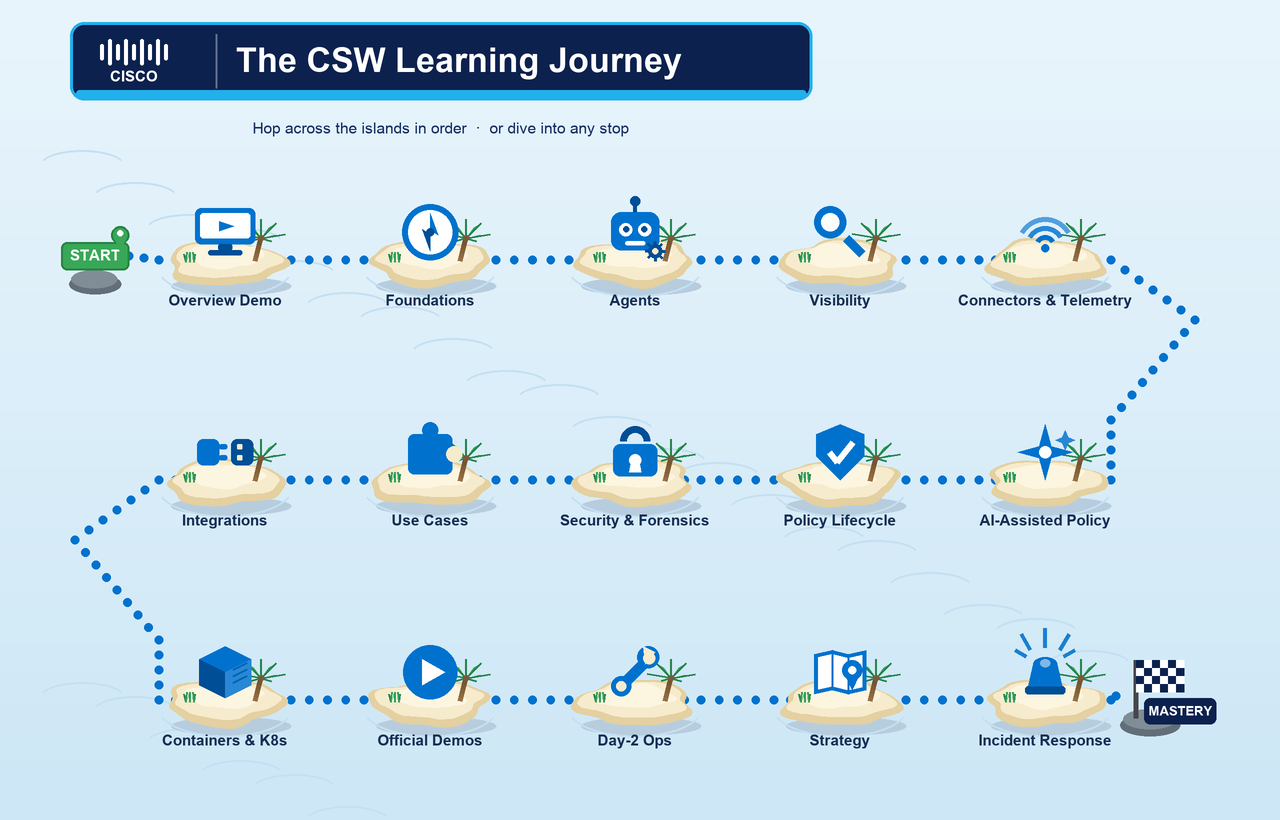
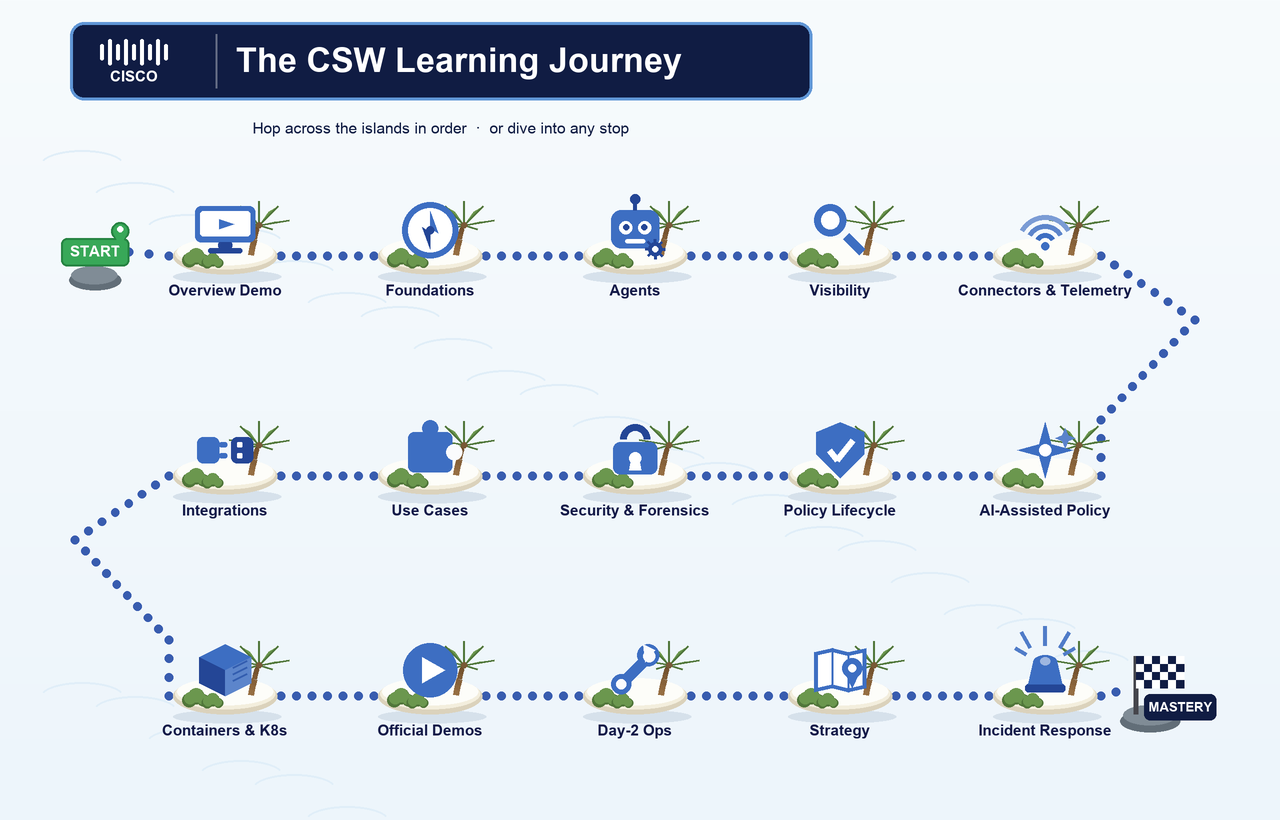
Match journey map islands to approved reference template
Restyle islands to the reference design measured from the shared mockup:
small cream-sand domes (~103x36px) with tan rims, olive two-tone bushes,
palm fronds, near-white background, royal-blue (61,110,194) icons and
dotted trail, and navy labels/header with a light-blue border.

diff --git a/assets/make_learning_journey.py b/assets/make_learning_journey.py
@@ -1,9 +1,10 @@
 #!/usr/bin/env python3
 """Generate the CSW Learning Journey island map for the User Education README.
 
-15 themed stops laid out in learning-path order (Overview -> Incident Response),
-connected by a dotted "hop across the islands" trail from START to MASTERY.
-Small sand islands with large, prominent icons on top; no numbering.
+15 themed stops in learning-path order (Overview -> Incident Response), connected
+by a dotted trail from START to MASTERY. Template, colors, and island dimensions
+are matched to the approved reference design: small cream-sand dome islands with
+tan rims, olive bushes, palm trees, and large royal-blue icons on top; numberless.
 Rendered at 2x and downsampled for crisp, anti-aliased output.
 All original artwork; no Cisco copyrighted assets.
 """
@@ -15,28 +16,29 @@ from PIL import Image, ImageDraw, ImageFont
 S = 2
 W, H = 1280, 820
 
-# ---- palette ----
-SKY_TOP   = (233, 245, 252)
-SKY_BOT   = (205, 231, 246)
-WAVE      = (196, 224, 242)
-NAVY      = (12, 33, 78)
-NAVY_2    = (20, 47, 100)
-CYAN      = (33, 176, 235)
-BLUE      = (0, 114, 206)      # Cisco blue
-BLUE_DK   = (0, 78, 150)
+# ---- palette (sampled from the approved reference) ----
+SKY_TOP   = (247, 251, 253)
+SKY_BOT   = (237, 245, 251)
+WAVE      = (224, 238, 248)
+NAVY      = (16, 28, 67)         # header
+NAVY_BDR  = (96, 150, 214)       # header border/glow
+BLUE      = (61, 110, 194)       # icons / accents
+BLUE_DK   = (36, 70, 150)
+PATH      = (56, 92, 175)        # dotted trail
 WHITE     = (255, 255, 255)
-SAND      = (247, 235, 205)
-SAND_HI   = (252, 245, 224)
-SAND_EDGE = (228, 208, 160)
-SAND_SH   = (183, 205, 222)    # island shadow on water
+CUT       = (250, 251, 253)      # icon cut-outs (reads as background)
+SAND_HI   = (253, 253, 249)      # cream sand body
+SAND_MID  = (243, 238, 221)
+SAND_EDGE = (219, 210, 188)      # tan bottom rim
+SAND_SH   = (214, 225, 235)      # soft water shadow
+BUSH      = (107, 151, 78)       # olive foliage
+BUSH_DK   = (80, 118, 58)
 TRUNK     = (150, 110, 66)
-LEAF      = (52, 160, 92)
-LEAF_DK   = (36, 132, 74)
 GREEN     = (56, 168, 88)
 GREEN_DK  = (38, 132, 66)
 ROCK      = (128, 140, 150)
 ROCK_DK   = (98, 110, 120)
-LABEL     = (23, 46, 84)
+LABEL     = (20, 26, 72)
 
 FONT  = ["/System/Library/Fonts/Supplemental/Arial.ttf", "/Library/Fonts/Arial.ttf"]
 BOLDF = ["/System/Library/Fonts/Supplemental/Arial Bold.ttf",
@@ -97,17 +99,17 @@ def blend(a, b, t):
 
 # ------------------------------------------------------------- big icons ----
 def icon(c, kind, cx, cy):
-    """Large (~60px), clean icon centered at (cx, cy)."""
-    col, dk, wt = BLUE, BLUE_DK, WHITE
+    """Large (~60px), clean royal-blue icon centered at (cx, cy)."""
+    col, dk = BLUE, BLUE_DK
 
     if kind == "overview":                 # monitor + play
         c.rrect([cx - 30, cy - 24, cx + 30, cy + 12], 6, fill=col)
-        c.rrect([cx - 25, cy - 19, cx + 25, cy + 6], 3, fill=wt)
+        c.rrect([cx - 25, cy - 19, cx + 25, cy + 6], 3, fill=WHITE)
         c.polygon([(cx - 6, cy - 11), (cx - 6, cy - 1), (cx + 9, cy - 6)], fill=col)
         c.rrect([cx - 7, cy + 12, cx + 7, cy + 18], 2, fill=dk)
         c.rrect([cx - 17, cy + 18, cx + 17, cy + 23], 3, fill=dk)
     elif kind == "compass":
-        c.ellipse([cx - 28, cy - 28, cx + 28, cy + 28], fill=wt, outline=col, width=6)
+        c.ellipse([cx - 28, cy - 28, cx + 28, cy + 28], fill=WHITE, outline=col, width=6)
         c.polygon([(cx, cy - 19), (cx + 8, cy + 3), (cx, cy - 2)], fill=col)
         c.polygon([(cx, cy + 19), (cx - 8, cy - 3), (cx, cy + 2)], fill=dk)
         c.ellipse([cx - 4, cy - 4, cx + 4, cy + 4], fill=dk)
@@ -115,141 +117,138 @@ def icon(c, kind, cx, cy):
         c.rrect([cx - 24, cy - 20, cx + 24, cy + 18], 10, fill=col)
         c.line([(cx, cy - 20), (cx, cy - 31)], fill=dk, width=4)
         c.ellipse([cx - 5, cy - 36, cx + 5, cy - 26], fill=dk)
-        c.ellipse([cx - 16, cy - 9, cx - 3, cy + 4], fill=wt)
-        c.ellipse([cx + 3, cy - 9, cx + 16, cy + 4], fill=wt)
+        c.ellipse([cx - 16, cy - 9, cx - 3, cy + 4], fill=WHITE)
+        c.ellipse([cx + 3, cy - 9, cx + 16, cy + 4], fill=WHITE)
         c.ellipse([cx - 12, cy - 6, cx - 6, cy], fill=dk)
         c.ellipse([cx + 6, cy - 6, cx + 12, cy], fill=dk)
-        c.rrect([cx - 10, cy + 9, cx + 10, cy + 13], 2, fill=wt)
-        gx, gy = cx + 20, cy + 19          # little gear
+        c.rrect([cx - 10, cy + 9, cx + 10, cy + 13], 2, fill=WHITE)
+        gx, gy = cx + 20, cy + 19
         for a in range(8):
             ang = a * math.pi / 4
             c.line([(gx + math.cos(ang) * 5, gy + math.sin(ang) * 5),
                     (gx + math.cos(ang) * 10, gy + math.sin(ang) * 10)], fill=dk, width=3)
         c.ellipse([gx - 7, gy - 7, gx + 7, gy + 7], fill=dk)
-        c.ellipse([gx - 3, gy - 3, gx + 3, gy + 3], fill=SAND)
+        c.ellipse([gx - 3, gy - 3, gx + 3, gy + 3], fill=CUT)
     elif kind == "search":                 # magnifier
-        c.ellipse([cx - 26, cy - 26, cx + 6, cy + 6], fill=wt, outline=col, width=7)
+        c.ellipse([cx - 26, cy - 26, cx + 6, cy + 6], fill=WHITE, outline=col, width=7)
         c.line([(cx + 6, cy + 6), (cx + 22, cy + 22)], fill=col, width=9)
     elif kind == "telemetry":              # broadcast waves
         c.ellipse([cx - 4, cy + 12, cx + 4, cy + 20], fill=col)
         for i, r in enumerate((11, 20, 29)):
             c.arc([cx - r, cy - r + 14, cx + r, cy + r + 14], 210, 330,
-                  fill=blend(col, wt, i * 0.16), width=5)
+                  fill=blend(col, WHITE, i * 0.16), width=5)
     elif kind == "ai":                     # spark / AI star
         c.polygon([(cx, cy - 28), (cx + 6, cy - 6), (cx + 28, cy),
                    (cx + 6, cy + 6), (cx, cy + 28), (cx - 6, cy + 6),
                    (cx - 28, cy), (cx - 6, cy - 6)], fill=col)
-        c.ellipse([cx - 6, cy - 6, cx + 6, cy + 6], fill=wt)
+        c.ellipse([cx - 6, cy - 6, cx + 6, cy + 6], fill=WHITE)
         c.polygon([(cx + 20, cy - 22), (cx + 23, cy - 15), (cx + 30, cy - 12),
                    (cx + 23, cy - 9), (cx + 20, cy - 2), (cx + 17, cy - 9),
-                   (cx + 10, cy - 12), (cx + 17, cy - 15)], fill=blend(col, wt, 0.15))
+                   (cx + 10, cy - 12), (cx + 17, cy - 15)], fill=blend(col, WHITE, 0.15))
     elif kind == "shield":                 # shield + check (Policy Lifecycle)
         pts = [(cx, cy - 28), (cx + 24, cy - 18), (cx + 24, cy + 4),
                (cx, cy + 28), (cx - 24, cy + 4), (cx - 24, cy - 18)]
         c.polygon(pts, fill=col)
-        c.line([(cx - 11, cy), (cx - 3, cy + 10)], fill=wt, width=6)
-        c.line([(cx - 3, cy + 10), (cx + 13, cy - 10)], fill=wt, width=6)
+        c.line([(cx - 11, cy), (cx - 3, cy + 10)], fill=WHITE, width=6)
+        c.line([(cx - 3, cy + 10), (cx + 13, cy - 10)], fill=WHITE, width=6)
     elif kind == "lock":                   # padlock (Security)
         c.arc([cx - 15, cy - 26, cx + 15, cy + 4], 180, 360, fill=dk, width=7)
         c.rrect([cx - 22, cy - 8, cx + 22, cy + 24], 7, fill=col)
-        c.ellipse([cx - 6, cy + 2, cx + 6, cy + 14], fill=wt)
+        c.ellipse([cx - 6, cy + 2, cx + 6, cy + 14], fill=WHITE)
         c.polygon([(cx - 4, cy + 9), (cx + 4, cy + 9), (cx + 6, cy + 20),
-                   (cx - 6, cy + 20)], fill=wt)
+                   (cx - 6, cy + 20)], fill=WHITE)
     elif kind == "puzzle":                 # puzzle piece
         c.rrect([cx - 22, cy - 18, cx + 22, cy + 22], 6, fill=col)
         c.ellipse([cx - 8, cy - 30, cx + 8, cy - 14], fill=col)
-        c.ellipse([cx + 16, cy - 6, cx + 32, cy + 10], fill=SAND)
+        c.ellipse([cx + 16, cy - 6, cx + 32, cy + 10], fill=CUT)
     elif kind == "integrations":           # plug + outlet
         c.rrect([cx - 28, cy - 13, cx - 6, cy + 13], 6, fill=col)
         c.rrect([cx - 6, cy - 8, cx + 2, cy - 3], 2, fill=col)
         c.rrect([cx - 6, cy + 3, cx + 2, cy + 8], 2, fill=col)
         c.rrect([cx + 6, cy - 13, cx + 28, cy + 13], 6, fill=dk)
-        c.rrect([cx + 12, cy - 8, cx + 17, cy - 3], 1, fill=SAND)
-        c.rrect([cx + 12, cy + 3, cx + 17, cy + 8], 1, fill=SAND)
+        c.rrect([cx + 12, cy - 8, cx + 17, cy - 3], 1, fill=CUT)
+        c.rrect([cx + 12, cy + 3, cx + 17, cy + 8], 1, fill=CUT)
     elif kind == "container":              # isometric container / cube
         c.polygon([(cx, cy - 26), (cx + 26, cy - 13), (cx, cy), (cx - 26, cy - 13)], fill=col)
         c.polygon([(cx - 26, cy - 13), (cx, cy), (cx, cy + 26), (cx - 26, cy + 13)], fill=dk)
         c.polygon([(cx + 26, cy - 13), (cx, cy), (cx, cy + 26), (cx + 26, cy + 13)],
-                  fill=blend(col, wt, 0.16))
-        for k in (-13, 0, 13):             # ridges on the right face
+                  fill=blend(col, WHITE, 0.16))
+        for k in (-13, 0, 13):
             c.line([(cx + 8, cy + 4 + k * 0.5), (cx + 22, cy - 3 + k * 0.5)],
                    fill=blend(col, dk, 0.4), width=2)
     elif kind == "play":                   # play in circle
         c.ellipse([cx - 27, cy - 27, cx + 27, cy + 27], fill=col)
-        c.polygon([(cx - 8, cy - 13), (cx - 8, cy + 13), (cx + 15, cy)], fill=wt)
+        c.polygon([(cx - 8, cy - 13), (cx - 8, cy + 13), (cx + 15, cy)], fill=WHITE)
     elif kind == "wrench":
         c.line([(cx - 18, cy + 18), (cx + 10, cy - 10)], fill=col, width=11)
-        c.ellipse([cx + 2, cy - 26, cx + 24, cy - 4], fill=col)     # top head
-        c.ellipse([cx + 8, cy - 20, cx + 20, cy - 8], fill=SAND)
-        c.polygon([(cx + 8, cy - 26), (cx + 20, cy - 20), (cx + 10, cy - 8)], fill=SAND)
-        c.ellipse([cx - 24, cy + 4, cx - 4, cy + 24], fill=col)     # bottom head
-        c.ellipse([cx - 19, cy + 9, cx - 9, cy + 19], fill=SAND)
+        c.ellipse([cx + 2, cy - 26, cx + 24, cy - 4], fill=col)
+        c.ellipse([cx + 8, cy - 20, cx + 20, cy - 8], fill=CUT)
+        c.polygon([(cx + 8, cy - 26), (cx + 20, cy - 20), (cx + 10, cy - 8)], fill=CUT)
+        c.ellipse([cx - 24, cy + 4, cx - 4, cy + 24], fill=col)
+        c.ellipse([cx - 19, cy + 9, cx - 9, cy + 19], fill=CUT)
     elif kind == "strategy":               # folded map + pin
         c.polygon([(cx - 26, cy - 18), (cx - 8, cy - 22), (cx + 8, cy - 18),
                    (cx + 26, cy - 22), (cx + 26, cy + 18), (cx + 8, cy + 22),
-                   (cx - 8, cy + 18), (cx - 26, cy + 22)], fill=wt, outline=col, width=4)
+                   (cx - 8, cy + 18), (cx - 26, cy + 22)], fill=WHITE, outline=col, width=4)
         c.line([(cx - 8, cy - 22), (cx - 8, cy + 18)], fill=col, width=2)
         c.line([(cx + 8, cy - 18), (cx + 8, cy + 22)], fill=col, width=2)
-        c.ellipse([cx + 2, cy - 12, cx + 22, cy + 8], fill=col)     # pin
+        c.ellipse([cx + 2, cy - 12, cx + 22, cy + 8], fill=col)
         c.polygon([(cx + 5, cy + 3), (cx + 19, cy + 3), (cx + 12, cy + 18)], fill=col)
-        c.ellipse([cx + 8, cy - 6, cx + 16, cy + 2], fill=wt)
+        c.ellipse([cx + 8, cy - 6, cx + 16, cy + 2], fill=WHITE)
     elif kind == "siren":                  # alert beacon
         c.rrect([cx - 20, cy + 14, cx + 20, cy + 22], 3, fill=dk)
         c.polygon([(cx - 17, cy + 14), (cx - 12, cy - 8), (cx + 12, cy - 8),
                    (cx + 17, cy + 14)], fill=col)
         c.ellipse([cx - 12, cy - 15, cx + 12, cy - 1], fill=col)
-        c.ellipse([cx - 5, cy - 13, cx + 5, cy - 5], fill=blend(col, wt, 0.5))
+        c.ellipse([cx - 5, cy - 13, cx + 5, cy - 5], fill=blend(col, WHITE, 0.5))
         for dx, dy in ((-30, -12), (-24, -28), (0, -34), (24, -28), (30, -12)):
             c.line([(cx + dx * 0.62, cy - 10 + dy * 0.42),
-                    (cx + dx, cy - 10 + dy)], fill=blend(col, wt, 0.1), width=4)
+                    (cx + dx, cy - 10 + dy)], fill=blend(col, WHITE, 0.1), width=4)
 
 
 # ---------------------------------------------------------------- pieces ----
 def palm(c, x, y):
-    """Small palm tree; base of trunk at (x, y)."""
+    """Palm tree; base of trunk at (x, y)."""
     for i in range(6):
         t = i / 5
-        c.line([(x + t * 5, y - t * 20), (x + (t + 0.2) * 5, y - (t + 0.2) * 20)],
-               fill=blend(TRUNK, (110, 78, 44), t), width=5 - int(t))
-    tx, ty = x + 6, y - 23
-    for fx, fy in [(-24, -4), (-15, -15), (0, -19), (15, -15), (24, -4), (10, 3), (-10, 3)]:
-        c.polygon([(tx, ty), (tx + fx * 0.5, ty + fy * 0.7), (tx + fx, ty + fy)], fill=LEAF)
-        c.line([(tx, ty), (tx + fx, ty + fy)], fill=LEAF_DK, width=2)
+        c.line([(x + t * 6, y - t * 26), (x + (t + 0.2) * 6, y - (t + 0.2) * 26)],
+               fill=blend(TRUNK, (110, 78, 44), t), width=6 - int(t * 2))
+    tx, ty = x + 8, y - 30
+    for fx, fy in [(-30, -5), (-19, -19), (0, -24), (19, -19), (30, -5), (13, 4), (-13, 4)]:
+        c.polygon([(tx, ty), (tx + fx * 0.5, ty + fy * 0.7), (tx + fx, ty + fy)], fill=BUSH)
+        c.line([(tx, ty), (tx + fx, ty + fy)], fill=BUSH_DK, width=2)
     c.ellipse([tx - 3, ty - 3, tx + 3, ty + 3], fill=(120, 90, 55))
 
 
-def grass_tuft(c, x, y):
-    for dx in (-5, -1, 3):
-        c.line([(x + dx, y), (x + dx * 1.4, y - 8)], fill=LEAF_DK, width=2)
-        c.line([(x + dx, y), (x + dx * 0.8, y - 10)], fill=LEAF, width=2)
+def bush(c, x, y, s=1.0):
+    """Rounded two-tone olive shrub centered near (x, y)."""
+    for dx, dy, r in [(-6, 1, 7), (1, -3, 8), (8, 1, 6)]:
+        c.ellipse([x + (dx - r) * s, y + (dy - r) * s, x + (dx + r) * s, y + (dy + r) * s],
+                  fill=BUSH_DK)
+    for dx, dy, r in [(-5, -1, 6), (1, -4, 7), (7, 0, 5)]:
+        c.ellipse([x + (dx - r) * s, y + (dy - r) * s, x + (dx + r) * s, y + (dy + r) * s],
+                  fill=BUSH)
 
 
-def blob(cx, cy, rx, ry, seed, n=48):
-    pts = []
-    for i in range(n):
-        a = 2 * math.pi * i / n
-        k = (0.08 * math.sin(3 * a + seed) + 0.05 * math.sin(5 * a + seed * 1.7)
-             + 0.03 * math.sin(8 * a + seed * 0.6))
-        pts.append((cx + math.cos(a) * rx * (1 + k), cy + math.sin(a) * ry * (1 + k)))
-    return pts
+def island(c, cx, cy, kind, label):
+    """Cream-sand dome island beneath a large icon (reference dimensions).
+
+    Island footprint ~103px wide x ~36px tall; cy is the ICON center.
+    """
+    scy = cy + 26                          # sand dome center
+    rx, ry = 52, 18
+    c.ellipse([cx - rx, scy + ry - 4, cx + rx + 4, scy + ry + 9], fill=SAND_SH)   # water shadow
+    c.ellipse([cx - rx, scy - ry, cx + rx, scy + ry], fill=SAND_EDGE)             # tan rim
+    c.ellipse([cx - rx + 2, scy - ry, cx + rx - 2, scy + ry - 5], fill=SAND_MID)  # sand body
+    c.ellipse([cx - rx + 4, scy - ry, cx + rx - 4, scy + ry - 9], fill=SAND_HI)   # cream top
+    bush(c, cx - 30, scy + 3)
+    bush(c, cx - 13, scy + 6, s=0.8)
+    palm(c, cx + 26, scy - 1)
+    icon(c, kind, cx, cy)
+    c.text((cx, scy + ry + 16), label, bold(15), LABEL)
 
 
-def island(c, cx, cy, kind, label, seed):
-    """Small sand island beneath a large icon; cy is the ICON center."""
-    scy = cy + 30                          # sand mound center
-    rx, ry = 58, 23
-    c.ellipse([cx - rx + 4, scy + ry - 6, cx + rx + 8, scy + ry + 12], fill=SAND_SH)
-    c.arc([cx - rx - 10, scy - ry, cx + rx + 10, scy + ry + 14], 20, 160, fill=WAVE, width=2)
-    c.polygon(blob(cx, scy + 3, rx, ry, seed), fill=SAND_EDGE)
-    c.polygon(blob(cx, scy, rx - 6, ry - 5, seed), fill=SAND)
-    c.polygon(blob(cx, scy - 4, rx - 20, ry - 11, seed + 1.3), fill=SAND_HI)
-    grass_tuft(c, cx - 34, scy + 2)
-    palm(c, cx + 30, scy + 1)
-    icon(c, kind, cx, cy + 2)
-    c.text((cx, scy + ry + 17), label, bold(15), LABEL)
-
-
-def dotted_path(c, pts, color=BLUE, r=4.2, gap=15):
+def dotted_path(c, pts, color=PATH, r=4.2, gap=15):
     for a, b in zip(pts, pts[1:]):
         (x0, y0), (x1, y1) = a, b
         dist = math.hypot(x1 - x0, y1 - y0)
@@ -293,7 +292,6 @@ def cisco_logo(c, x, y):
     c.text((x + 34, y + 24), "CISCO", bold(15), WHITE, anchor="mm")
 
 
-# ---- islands in learning-path order: (icon, label) ----
 ISLANDS = [
     ("overview",     "Overview Demo"),
     ("compass",      "Foundations"),
@@ -325,9 +323,8 @@ def build(path):
         wx = 40 + (i * 53) % (W - 220)
         c.arc([wx, wy, wx + 84, wy + 30], 200, 340, fill=WAVE, width=2)
 
-    # 5 columns x 3 rows, serpentine
     col_x = [225, 430, 635, 840, 1045]
-    row_y = [230, 450, 670]                # icon-center rows
+    row_y = [230, 450, 670]
 
     pos = {}
     for i in range(5):
@@ -337,22 +334,22 @@ def build(path):
     for i in range(5):
         pos[11 + i] = (col_x[i], row_y[2])
 
-    start_xy = (95, row_y[0] + 30)
-    mastery_xy = (1150, row_y[2] + 30)
+    start_xy = (95, row_y[0] + 26)
+    mastery_xy = (1150, row_y[2] + 26)
 
-    E = 66                                  # island half-width at sand level
-    def er(n): x, y = pos[n]; return (x + E, y + 30)
-    def el(n): x, y = pos[n]; return (x - E, y + 30)
+    E = 56
+    def er(n): x, y = pos[n]; return (x + E, y + 26)
+    def el(n): x, y = pos[n]; return (x - E, y + 26)
 
     trail = [(start_xy[0] + 34, start_xy[1] - 4), el(1)]
     for n in range(1, 5):
         trail += [er(n), el(n + 1)]
     x5, y5 = pos[5]; x6, y6 = pos[6]
-    trail += [(x5 + E, y5 + 30), (x5 + 150, y5 + 90), (x6 + E, y6 - 30), er(6)]
+    trail += [(x5 + E, y5 + 26), (x5 + 150, y5 + 90), (x6 + E, y6 - 30), er(6)]
     for n in range(6, 10):
         trail += [el(n), er(n + 1)]
     x10, y10 = pos[10]; x11, y11 = pos[11]
-    trail += [(x10 - E, y10 + 30), (x10 - 150, y10 + 90), (x11 - E, y11 - 30), el(11)]
+    trail += [(x10 - E, y10 + 26), (x10 - 150, y10 + 90), (x11 - E, y11 - 30), el(11)]
     for n in range(11, 15):
         trail += [er(n), el(n + 1)]
     trail += [er(15), (mastery_xy[0] - 34, mastery_xy[1] - 4)]
@@ -362,17 +359,16 @@ def build(path):
     start_marker(c, *start_xy)
     for i, (kind, label) in enumerate(ISLANDS, 1):
         x, y = pos[i]
-        island(c, x, y, kind, label, seed=i * 1.37)
+        island(c, x, y, kind, label)
     mastery_marker(c, *mastery_xy)
 
-    # header banner
-    c.rrect([70, 22, 812, 100], 14, fill=NAVY, outline=CYAN, width=3)
-    c.rrect([76, 90, 806, 97], 4, fill=CYAN)
+    # header banner (navy with light-blue border)
+    c.rrect([70, 22, 812, 100], 14, fill=NAVY, outline=NAVY_BDR, width=3)
     cisco_logo(c, 100, 52)
     c.line([(216, 34), (216, 88)], fill=blend(NAVY, WHITE, 0.35), width=2)
     c.text((236, 60), "The CSW Learning Journey", bold(34), WHITE, anchor="lm")
     c.text((441, 128), "Hop across the islands in order  \u00b7  or dive into any stop",
-           font(15.5), NAVY_2, anchor="mm")
+           font(15.5), NAVY, anchor="mm")
 
     big.resize((W, H), Image.LANCZOS).save(path)
     return path